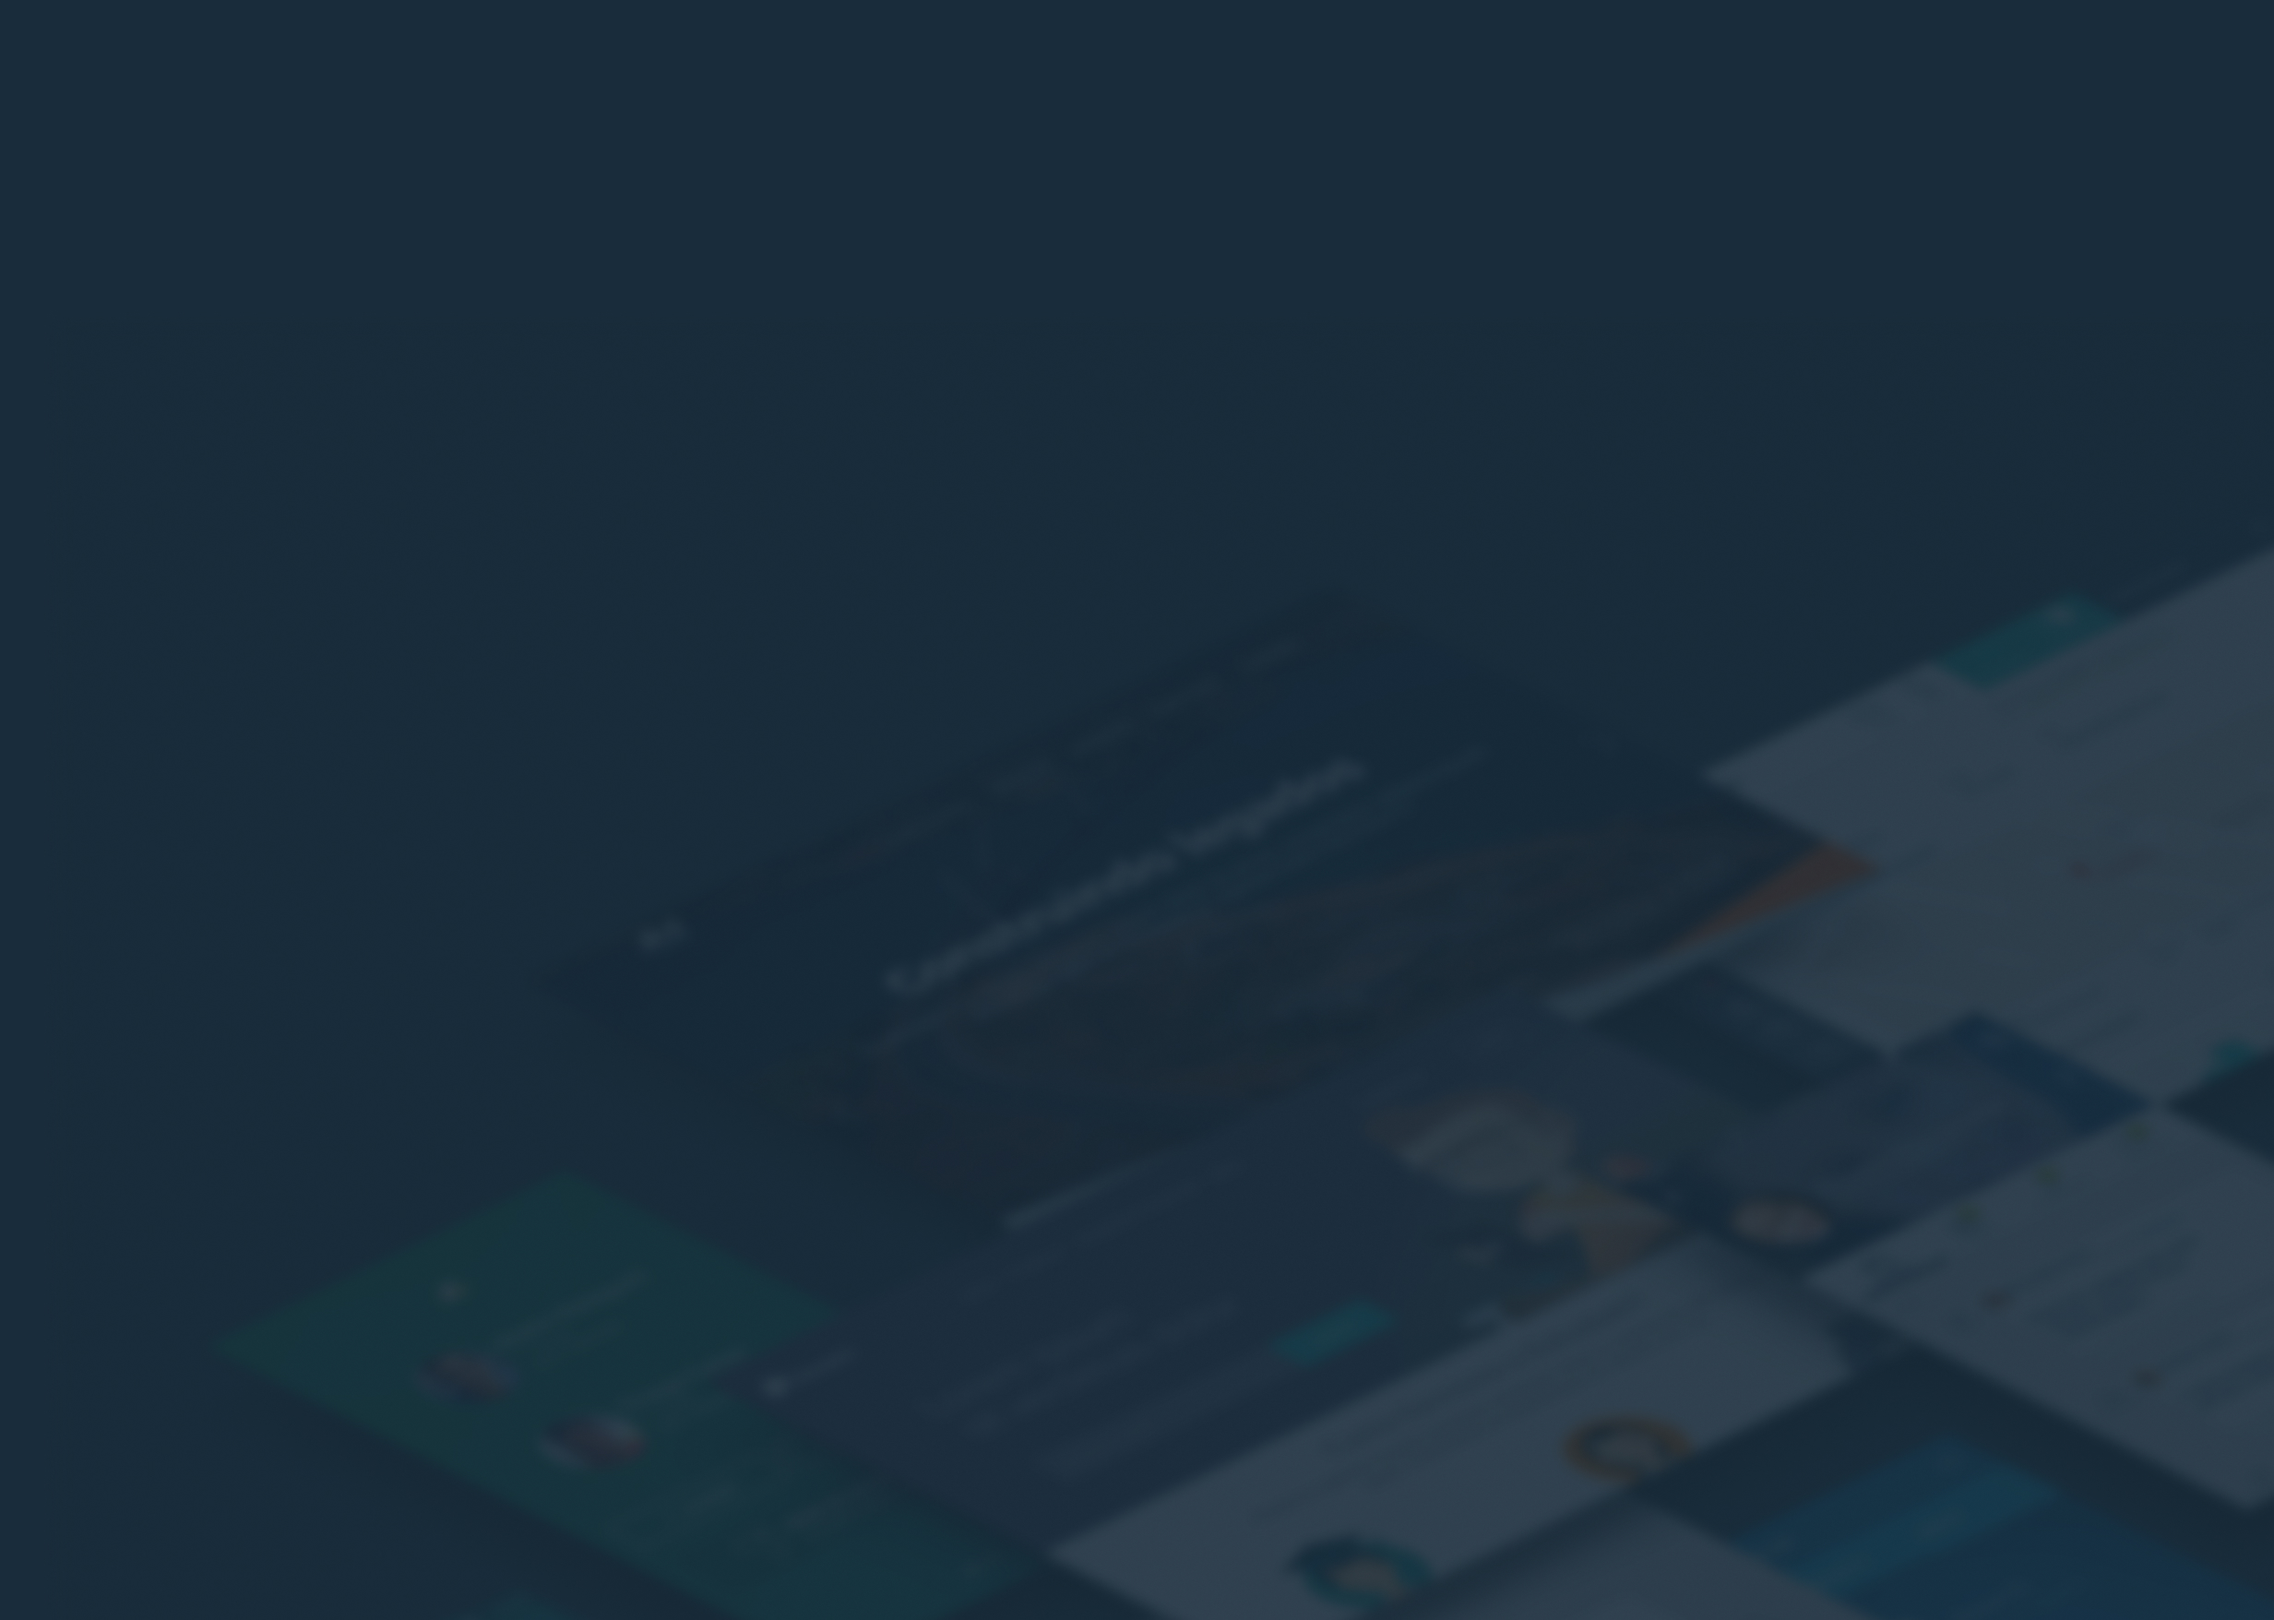
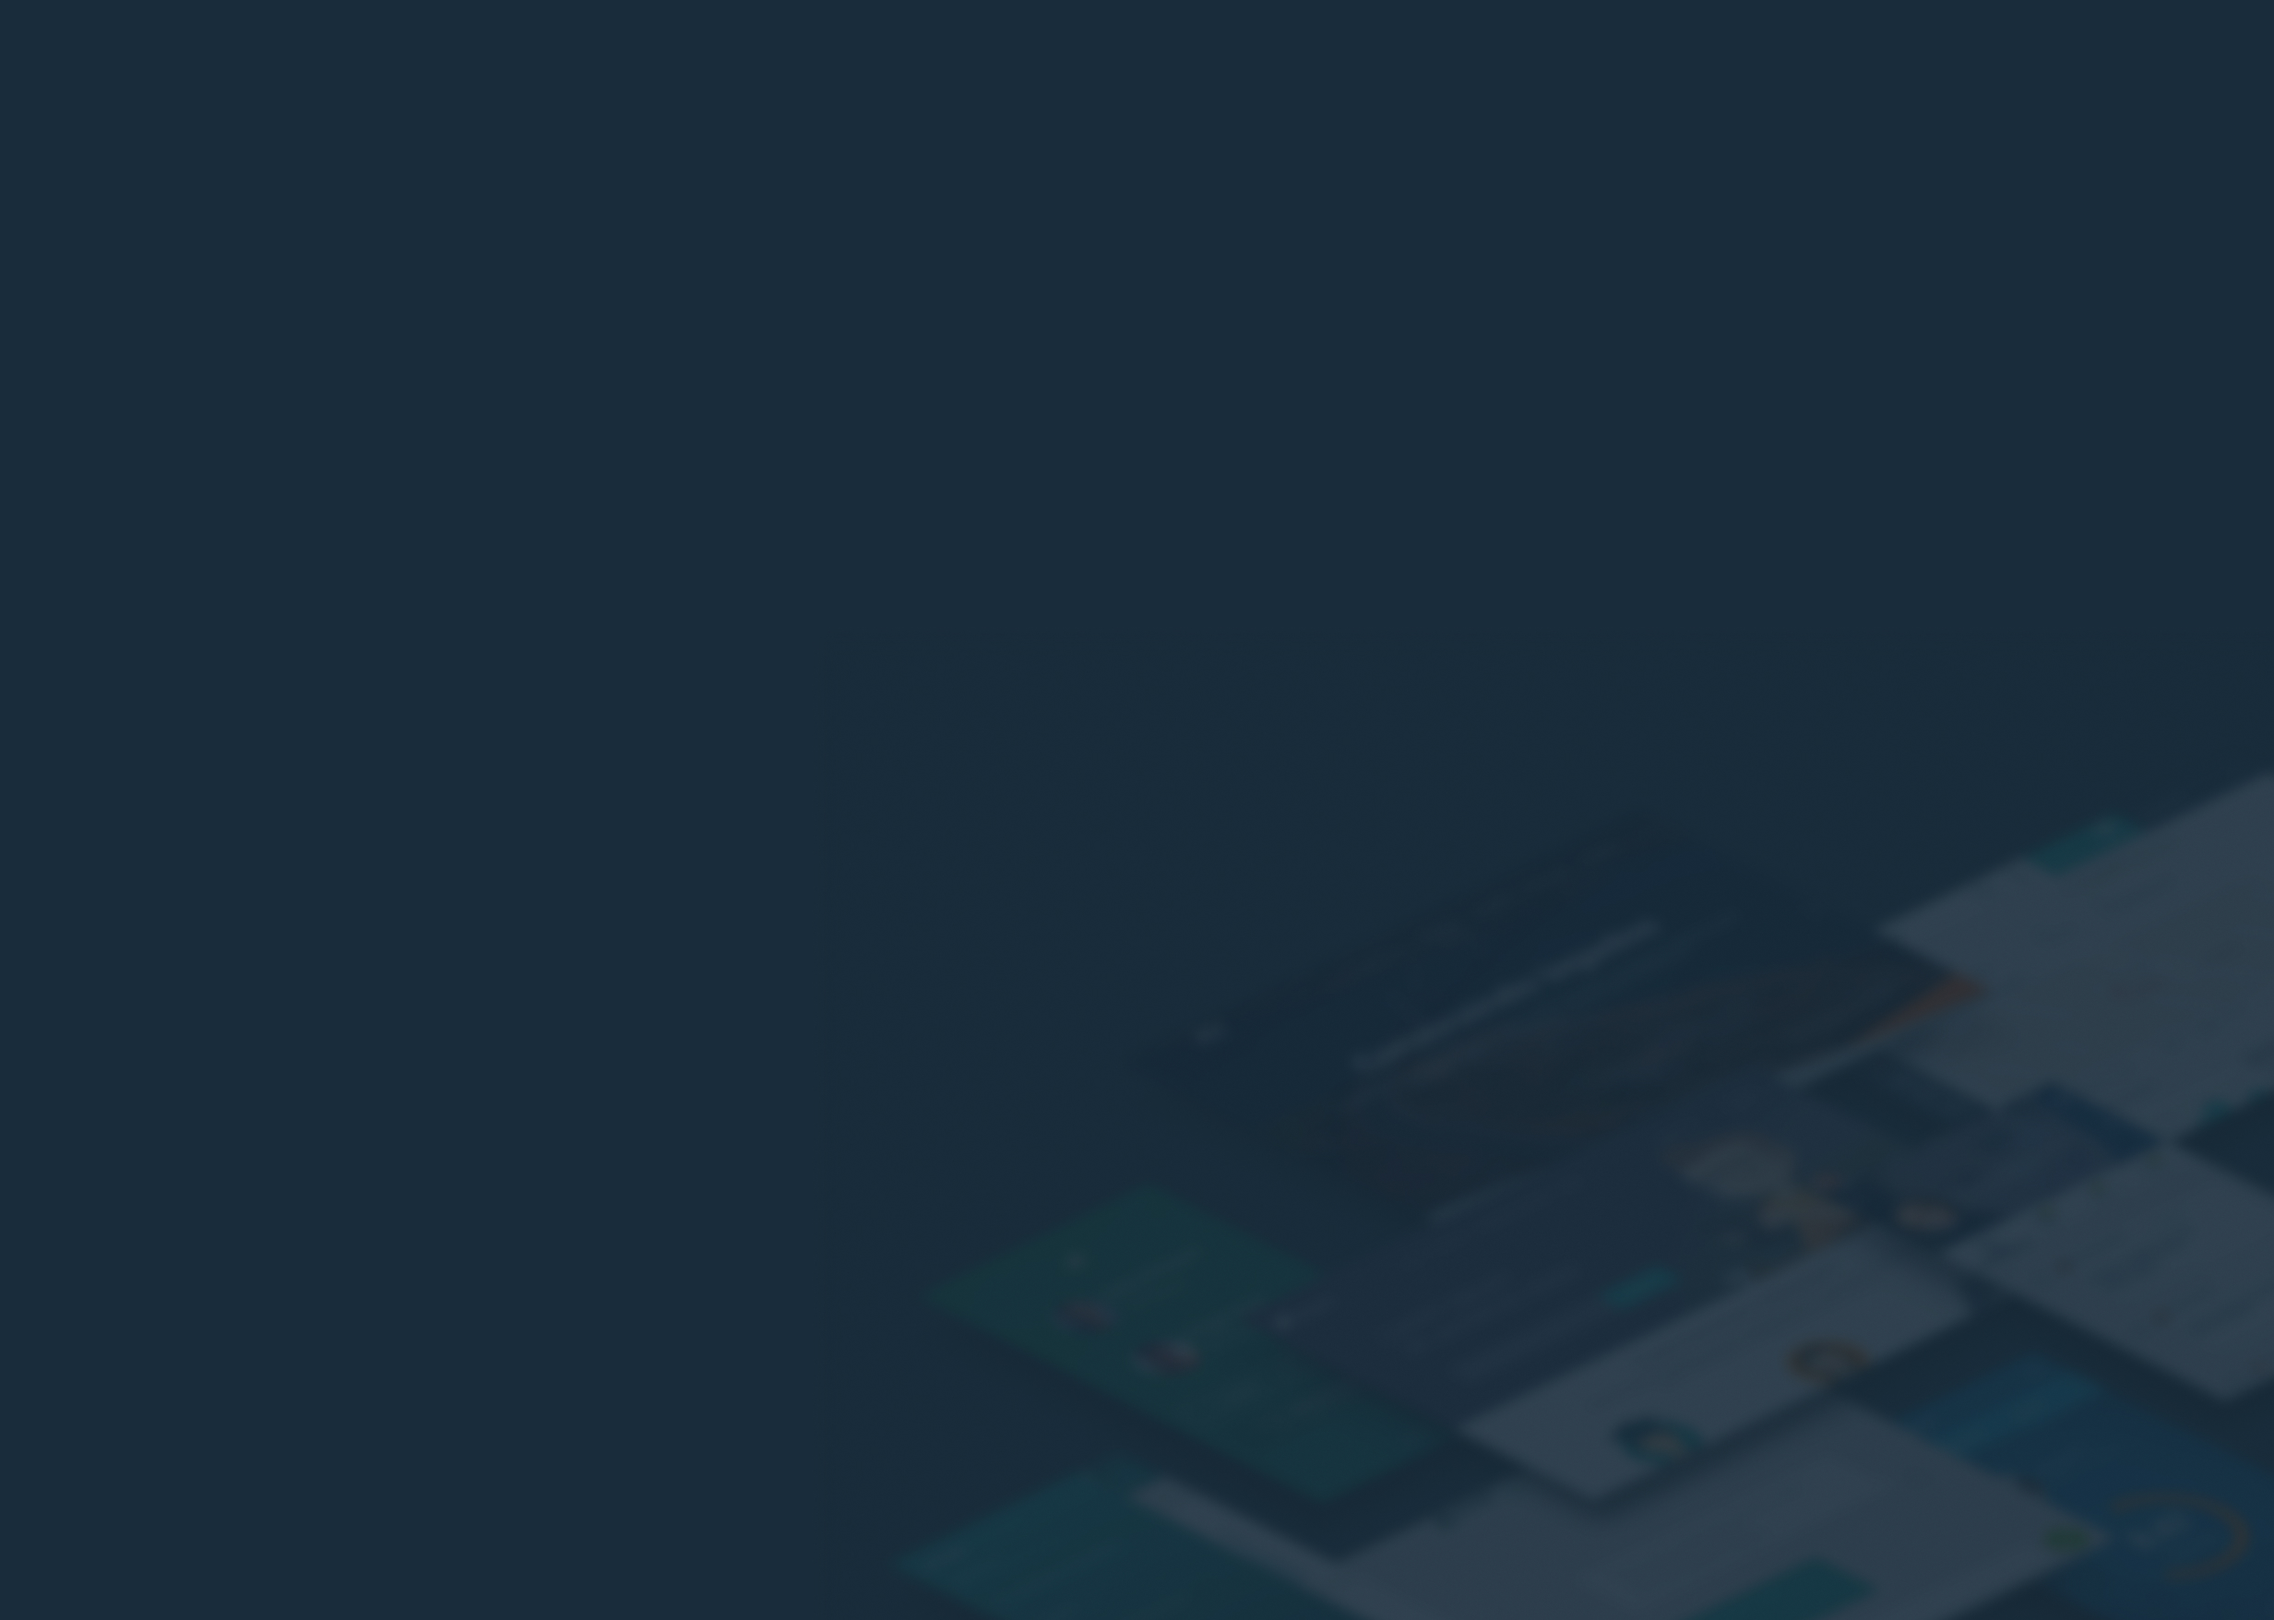
Adjusts

diff --git a/index.html b/index.html
@@ -43,7 +43,7 @@
 
                     <img class="img-adaptative iso-item rellax vert-move-5" data-rellax-speed="1"
                         data-rellax-percentage="-0.6" src="images/home/isometrics/screen-02.png">
-                    <img class="img-adaptative iso-item rellax" data-rellax-speed="-1.2" data-rellax-percentage="1"
+                    <img class="img-adaptative iso-item rellax" data-rellax-speed="-1.2" data-rellax-percentage="-1.95"
                         src="images/home/isometrics/screen-13.png">
 
                     <img class="img-adaptative iso-item rellax " data-rellax-speed="-0.9" data-rellax-percentage="1.3"
